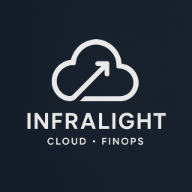
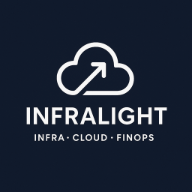
Infralight: New Branding

Changed region(s): [[0.125, 0.1875, 0.875, 0.7812]]

diff --git a/services.html b/services.html
@@ -1,43 +1,97 @@
 <!doctype html>
 <html lang="en-GB">
+<head>
+  <meta charset="utf-8"/>
+  <meta name="viewport" content="width=device-width,initial-scale=1"/>
+  <title>Services — Infralight</title>
+  <link rel="canonical" href="https://infralight.co.uk/services.html"/>
+
+  <!-- Favicons -->
+  <link rel="icon" type="image/svg+xml" href="/favicon.svg">
+  <link rel="mask-icon" href="/safari-pinned-tab.svg" color="#2B5AA7">
+  <meta name="theme-color" content="#0A0F1C">
+
+  <!-- PWA / CSS / JS -->
+  <link rel="manifest" href="/manifest.webmanifest"/>
+  <link rel="stylesheet" href="/styles.css"/>
+  <script defer src="/app.js"></script>
+
+  <!-- OG (optional) -->
+  <meta property="og:type" content="website">
+  <meta property="og:title" content="Services — Infralight">
+  <meta property="og:url" content="https://infralight.co.uk/services.html">
+  <meta property="og:image" content="https://infralight.co.uk/assets/logo/infralight-logo-neon.png">
+</head>
+<body>
+  <a class="skip-link" href="#main">Skip to content</a>
+
+  <!-- Header -->
   <header class="site-header">
     <div class="container header-inner">
       <a class="brand" href="/" aria-label="Infralight home">
-        <img src="/assets/logo/infralight-logo-dark.png" alt="Infralight" width="220" height="40"/>
+        <picture>
+          <source srcset="/assets/logo/infralight-logo-light.png" media="(prefers-color-scheme: light)">
+          <img src="/assets/logo/infralight-logo-dark.png" alt="Infralight" class="brand-logo" width="220" height="40"/>
+        </picture>
       </a>
       <button class="nav-toggle" aria-expanded="false" aria-controls="nav" aria-label="Toggle navigation">
         <span class="nav-toggle-bar"></span><span class="nav-toggle-bar"></span><span class="nav-toggle-bar"></span>
       </button>
       <nav id="nav" class="site-nav" aria-label="Primary">
-        <a href="/services.html">Services</a>
+        <a class="active" href="/services.html">Services</a>
         <a href="/case-studies.html">Case Studies</a>
         <a href="/about.html">About</a>
         <a href="/contact.html" class="btn btn-primary">Book a consult</a>
       </nav>
     </div>
   </header>
-<body>
-  <a class="skip-link" href="#main">Skip to content</a>
-  <header class="site-header"><div class="container header-inner">
-    <a class="brand" href="/"><img src="/assets/logo/infralight-logo-dark.png" alt="Infralight" width="220"/></a>
-    <button class="nav-toggle" aria-expanded="false" aria-controls="nav" aria-label="Toggle navigation"><span class="nav-toggle-bar"></span><span class="nav-toggle-bar"></span><span class="nav-toggle-bar"></span></button>
-    <nav id="nav" class="site-nav"><a class="active" href="/services.html">Services</a><a href="/case-studies.html">Case Studies</a><a href="/about.html">About</a><a href="/contact.html" class="btn btn-primary">Book a consult</a></nav>
-  </div></header>
+
+  <!-- Main -->
   <main id="main">
-    <section class="section"><div class="container"><h1>Services</h1><p class="lead">Pragmatic consulting across infrastructure, cloud, and FinOps.</p></div></section>
-    <section class="section"><div class="container cards">
-      <article class="card"><h3><a href="/infrastructure.html">Infrastructure</a></h3><p>HA architectures, SRE, observability, security, IaC.</p></article>
-      <article class="card"><h3><a href="/cloud.html">Cloud</a></h3><p>AWS, Azure, GCP — migration, platform engineering, governance.</p></article>
-      <article class="card"><h3><a href="/finops.html">FinOps</a></h3><p>Cost visibility, rightsizing, commitments, anomaly detection.</p></article>
-    </div></section>
+    <section class="section">
+      <div class="container">
+        <h1>Services</h1>
+        <p class="lead">Pragmatic consulting across infrastructure, cloud, and FinOps.</p>
+      </div>
+    </section>
+
+    <section class="section">
+      <div class="container cards">
+        <article class="card">
+          <h3><a href="/infrastructure.html">Infrastructure</a></h3>
+          <p>High-availability architectures, SRE practices, observability, security, and Infrastructure as Code.</p>
+        </article>
+        <article class="card">
+          <h3><a href="/cloud.html">Cloud</a></h3>
+          <p>AWS, Azure, GCP — migration, platform engineering, governance, and continuous delivery.</p>
+        </article>
+        <article class="card">
+          <h3><a href="/finops.html">FinOps</a></h3>
+          <p>Cost visibility, rightsizing, reserved commitments, and anomaly detection for cloud spend.</p>
+        </article>
+      </div>
+    </section>
   </main>
+
+  <!-- Footer -->
   <footer class="site-footer">
     <div class="container footer-grid">
-      <div><img src="/assets/logo/infralight-logo-dark.png" alt="Infralight" width="160"/><p class="muted">United Kingdom • Remote-first</p></div>
+      <div>
+        <img src="/assets/logo/infralight-logo-dark.png" alt="Infralight" width="160" height="28"/>
+        <p class="muted">United Kingdom • Remote-first</p>
+      </div>
       <nav class="footer-nav">
-        <a href="/services.html">Services</a><a href="/case-studies.html">Case Studies</a><a href="/about.html">About</a><a href="/contact.html">Contact</a><a href="/privacy.html">Privacy</a>
+        <a href="/services.html">Services</a>
+        <a href="/case-studies.html">Case Studies</a>
+        <a href="/about.html">About</a>
+        <a href="/contact.html">Contact</a>
+        <a href="/privacy.html">Privacy</a>
       </nav>
-      <div class="social"><a href="#">in</a><a href="#">gh</a><a href="mailto:hello@infralight.co.uk">✉</a></div>
+      <div class="social">
+        <a href="#" aria-label="LinkedIn">in</a>
+        <a href="#" aria-label="GitHub">gh</a>
+        <a href="mailto:hello@infralight.co.uk" aria-label="Email">✉</a>
+      </div>
     </div>
     <div class="container tiny muted">© <span id="year"></span> Infralight. All rights reserved.</div>
   </footer>

diff --git a/contact.html b/contact.html
@@ -1,15 +1,12 @@
-<!doctype html><html lang="en-GB"><head>
-    <meta charset="utf-8"/><meta name="viewport" content="width=device-width,initial-scale=1"/>
-    <!-- Favicons (SVG-first + Safari pinned tab + PNG fallbacks optional) -->
-    <link rel="icon" type="image/svg+xml" href="/favicon.svg">
-    <link rel="mask-icon" href="/safari-pinned-tab.svg" color="#2B5AA7">
-    <meta name="theme-color" content="#0A0F1C">
-    <link rel="icon" type="image/png" sizes="32x32" href="/favicon-32x32.png">
-    <link rel="icon" type="image/png" sizes="16x16" href="/favicon-16x16.png">
-    <title>Contact — Infralight</title>
-    <link rel="canonical" href="https://infralight.co.uk/contact.html"/>
-    <link rel="stylesheet" href="/styles.css"/><script defer src="/app.js"></script>
-    </head><body>
+<!doctype html><html lang="en-GB">
+  <head>
+  <meta charset="utf-8"/><meta name="viewport" content="width=device-width,initial-scale=1"/>
+  <title>Infrastructure Services — Infralight</title>
+  <link rel="canonical" href="https://infralight.co.uk/infrastructure.html"/>
+  <link rel="icon" type="image/svg+xml" href="/favicon.svg"><link rel="mask-icon" href="/safari-pinned-tab.svg" color="#2B5AA7"><meta name="theme-color" content="#0A0F1C">
+  <link rel="manifest" href="/manifest.webmanifest"/><link rel="stylesheet" href="/styles.css"/><script defer src="/app.js"></script>
+</head>
+<body>
     <a class="skip-link" href="#main">Skip to content</a>
     <header class="site-header"><div class="container header-inner">…(same header)…</div></header>
     <main id="main">
@@ -39,6 +36,15 @@
       </form>
     </div></section>
     </main>
-    <footer class="site-footer"><div class="container footer-grid">…</div></footer>
+  <footer class="site-footer">
+    <div class="container footer-grid">
+      <div><img src="/assets/logo/infralight-logo-dark.png" alt="Infralight" width="160"/><p class="muted">United Kingdom • Remote-first</p></div>
+      <nav class="footer-nav">
+        <a href="/services.html">Services</a><a href="/case-studies.html">Case Studies</a><a href="/about.html">About</a><a href="/contact.html">Contact</a><a href="/privacy.html">Privacy</a>
+      </nav>
+      <div class="social"><a href="#">in</a><a href="#">gh</a><a href="mailto:hello@infralight.co.uk">✉</a></div>
+    </div>
+    <div class="container tiny muted">© <span id="year"></span> Infralight. All rights reserved.</div>
+  </footer>
     </body></html>
     

diff --git a/infrastructure.html b/infrastructure.html
@@ -13,6 +13,15 @@
   <main id="main">
     <section class="section"><div class="container"><h1>Infrastructure Services</h1><p class="lead">Resilient infrastructure and platforms that scale.</p><ul><li>Infrastructure as Code (Terraform, Ansible)</li><li>Kubernetes platform engineering</li><li>Monitoring, observability, SRE practices</li><li>Resilience, HA, DR strategies</li></ul></div></section>
   </main>
-  <footer class="site-footer">…same footer…</footer>
+  <footer class="site-footer">
+    <div class="container footer-grid">
+      <div><img src="/assets/logo/infralight-logo-dark.png" alt="Infralight" width="160"/><p class="muted">United Kingdom • Remote-first</p></div>
+      <nav class="footer-nav">
+        <a href="/services.html">Services</a><a href="/case-studies.html">Case Studies</a><a href="/about.html">About</a><a href="/contact.html">Contact</a><a href="/privacy.html">Privacy</a>
+      </nav>
+      <div class="social"><a href="#">in</a><a href="#">gh</a><a href="mailto:hello@infralight.co.uk">✉</a></div>
+    </div>
+    <div class="container tiny muted">© <span id="year"></span> Infralight. All rights reserved.</div>
+  </footer>
 </body>
 </html>

diff --git a/cloud.html b/cloud.html
@@ -13,6 +13,15 @@
   <main id="main">
     <section class="section"><div class="container"><h1>Cloud Services</h1><p class="lead">Accelerating your journey to AWS, Azure, and GCP.</p><ul><li>Cloud landing zones and governance</li><li>Migration and modernisation</li><li>CI/CD and DevOps practices</li><li>Security, compliance, IAM</li></ul></div></section>
   </main>
-  <footer class="site-footer">…same footer…</footer>
+  <footer class="site-footer">
+    <div class="container footer-grid">
+      <div><img src="/assets/logo/infralight-logo-dark.png" alt="Infralight" width="160"/><p class="muted">United Kingdom • Remote-first</p></div>
+      <nav class="footer-nav">
+        <a href="/services.html">Services</a><a href="/case-studies.html">Case Studies</a><a href="/about.html">About</a><a href="/contact.html">Contact</a><a href="/privacy.html">Privacy</a>
+      </nav>
+      <div class="social"><a href="#">in</a><a href="#">gh</a><a href="mailto:hello@infralight.co.uk">✉</a></div>
+    </div>
+    <div class="container tiny muted">© <span id="year"></span> Infralight. All rights reserved.</div>
+  </footer>
 </body>
 </html>

diff --git a/privacy.html b/privacy.html
@@ -16,6 +16,15 @@
       <h1>Privacy Policy</h1>
       <p class="muted">We respect your privacy. This page explains what we collect and why. Replace with your policy text.</p>
     </div></section></main>
-    <footer class="site-footer"><div class="container footer-grid">…</div></footer>
+    <footer class="site-footer">
+    <div class="container footer-grid">
+      <div><img src="/assets/logo/infralight-logo-dark.png" alt="Infralight" width="160"/><p class="muted">United Kingdom • Remote-first</p></div>
+      <nav class="footer-nav">
+        <a href="/services.html">Services</a><a href="/case-studies.html">Case Studies</a><a href="/about.html">About</a><a href="/contact.html">Contact</a><a href="/privacy.html">Privacy</a>
+      </nav>
+      <div class="social"><a href="#">in</a><a href="#">gh</a><a href="mailto:hello@infralight.co.uk">✉</a></div>
+    </div>
+    <div class="container tiny muted">© <span id="year"></span> Infralight. All rights reserved.</div>
+  </footer>
     </body></html>
     

diff --git a/index.html b/index.html
@@ -17,7 +17,7 @@
   <header class="site-header">
     <div class="container header-inner">
       <a class="brand" href="/" aria-label="Infralight home">
-        <img src="/assets/logo/infralight-logo-dark.png" alt="Infralight" width="220" height="40"/>
+        <img src="/assets/logo/infralight-logo.png" alt="Infralight" width="220" height="40"/>
       </a>
       <button class="nav-toggle" aria-expanded="false" aria-controls="nav" aria-label="Toggle navigation">
         <span class="nav-toggle-bar"></span><span class="nav-toggle-bar"></span><span class="nav-toggle-bar"></span>
